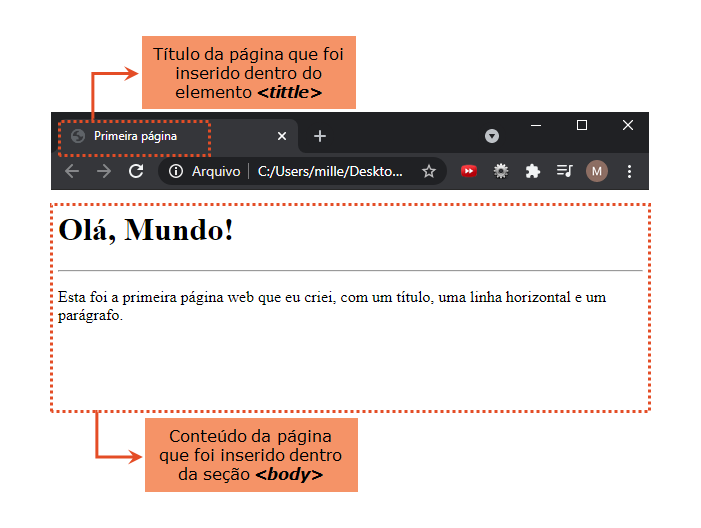
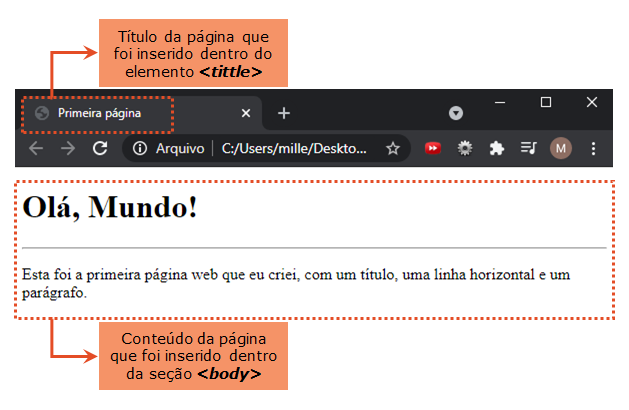
update size image
reduzi tamanho das figs

Changed region(s): [[0.0, 0.0293, 0.9968, 0.9659]]

diff --git a/README.md b/README.md
@@ -72,7 +72,7 @@ Código básico de um documento HTML:
     <li> <code>tittle</code>: é o elemento que especifica um título para a página HTML (mostrado na barra de título do navegador ou na guia da página).</li>
     <li> <code>body</code>: é o elemento que vai definir o corpo do documento. É um container para todo o conteúdo visível, como títulos, parágrafos, imagens, hiperlinks, tabelas, listas, etc. </li>
 </ol>
-![](imagens/dica_cod_base.png)
+![dica](imagens/dica_cod_base.png)
 
 ## CRIANDO MINHA PRIMEIRA PÁGINA
 
